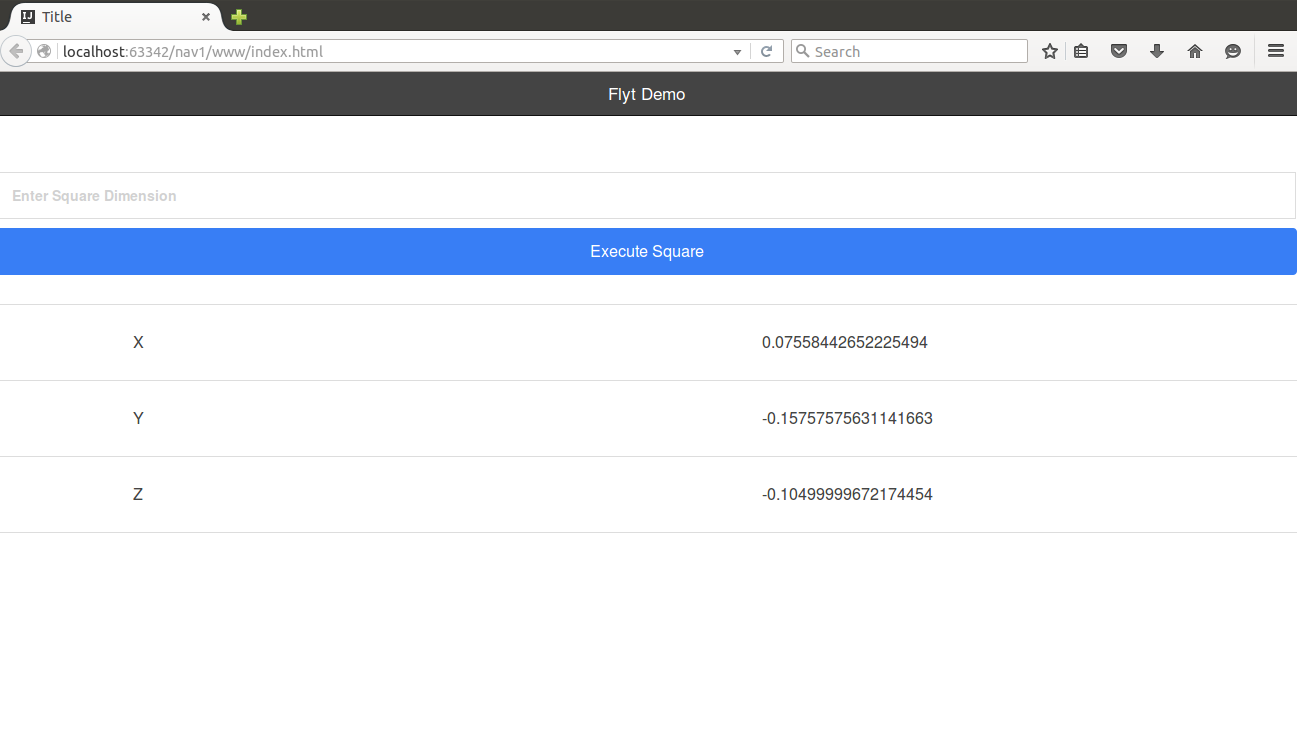
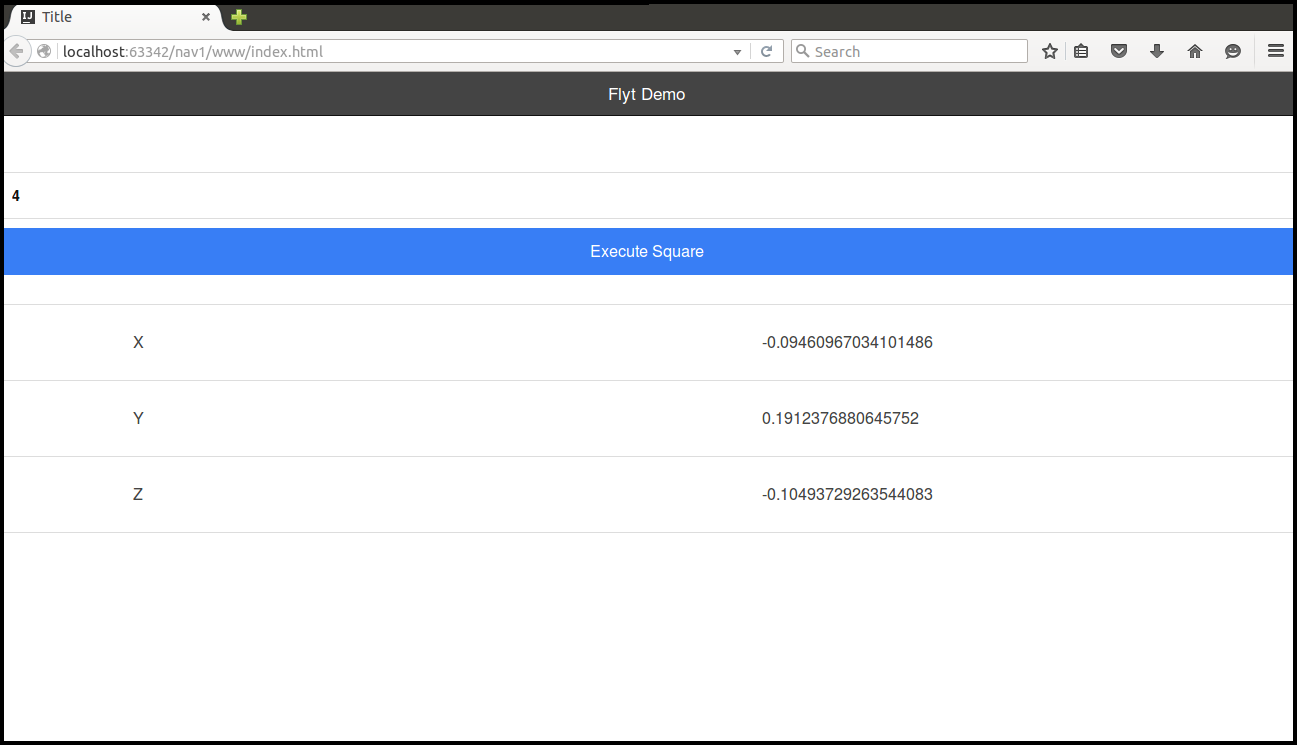
Screenshots for web and mobile apps added and typos corrected

diff --git a/source/docs/FlytSim/MobileApps.rst b/source/docs/FlytSim/MobileApps.rst
@@ -1,28 +1,29 @@
 .. _flytsim mobile apps:
 
-***********
-Mobile Apps
-***********
+*******************
+Web and Mobile Apps
+*******************
 
 Introduction
 ============
 
-This document deals with the instructions and step by step guide for creating Web and Mobile apps for your Drone. The Web apps can be developed using HTML, CSS and JS, however in the case of Mobile apps there are two ways of doing so. The conventional way is to build a mobile app using IDEs such as Eclipse or Android Studio in JAVA . The other way of going about creating mobile apps is to use the Web app created i.e a simple HTML,CSS and JS project and convert that into a mobile app using frameworks such as Cordova and Phonegap. This allows for sharing the same codebase for creating cross-platform mobile apps.
+This document deals with the instructions and step by step guide for creating Web and Mobile apps for your Drone. The Web apps can be developed using HTML, CSS and JS, however in the case of Mobile apps there are two ways of doing so. The conventional way is to build a mobile app in JAVA using IDEs such as Eclipse or Android Studio. The other way of going about creating mobile apps is to reuse the Web app code i.e a simple HTML,CSS and JS project and convert that into a mobile app using frameworks such as Cordova and Phonegap. This allows for sharing the same codebase for creating cross-platform mobile apps.
 
 
-Here we will delve into the second approach: developing mobile apps using web technologies (HTML, CSS, JS/Jquery) and Cordova engine. These apps will allow you to remotely monitor and command your drone. You will also see how to get custom data from the Drone on your app.
+Here we will delve into the second approach: developing a web app with HTML, CSS, JS/Jquery and Cordova engine. These apps will allow you to remotely monitor and command your drone. You will also see how to get custom data from the Drone on your app.
   
 
-The IDE that we have selected for this project is Intellij Idea. The GUI and the client side coding is done in HTML, CSS and JS/Jquery using Ionic as the front end framework for both Web and Mobile apps.
+The IDE that we have selected for this project is Intellij Idea. The GUI and the client side coding is done in HTML, CSS and JS/Jquery
+then reusing the code to create mobile apps using Ionic as the front end framework for both Web and Mobile apps.
 
 
 Front end Framework
 ^^^^^^^^^^^^^^^^^^^
 
-Ionic is free and open source and offers a library of mobile optimized HTML, CSS and JS components, reusable and customizable UI elements and other tools for building highly interactive mobile apps.We will be using Ionic for the front end development of Web apps as well as we will be converting this Web app into Mobile app later in this tutorial.For this Ionic uses Cordova engine which is a mobile development framework that uses web technologies for cross platform app development. You can refer to Ionic `getting started`_ guide for further instructions and to make yourself familiarized with the Ionic framework. For details about Cordova, you can look at their documentation `here`_.
+Ionic is free and open source and offers a library of mobile optimized HTML, CSS and JS components, reusable and customizable UI elements and other tools for building highly interactive mobile apps.We will be using Ionic for the front end development of Web apps since we will be converting these Web apps into Mobile apps later in this tutorial.Ionic uses Cordova engine which is a mobile development framework that uses web technologies for cross platform app development. You can refer to Ionic `getting started`_ guide for further instructions and to make yourself familiarized with the Ionic framework. For details about Cordova, you can look at their documentation `here`_.
 
 
-.. note:: There are many other Web and Mobile app front end frameworks available. You can use any framework that you are comfortable with.
+.. note:: There are many other Web and Mobile app front end frameworks available. You can use any framework that you are comfortable with. The UI of an app may have to be designed separately for web and mobile for platform specific optimizations.
 
 
 IDE
@@ -44,7 +45,7 @@ For a quick start, you can follow the steps given below to install Ionic, Cordov
 #. Please install Node.js v4 (Node.js v5 does not work at the moment with Ionic). To install node.js go to this `link`_. 
    
 
-#. To install the latest Ionic and Cordova use the following command:
+#. To install the latest Ionic and Cordova use the following command:                                                                    
    $ npm install -g cordova ionic
 
 #. Follow the Android and iOS platform guides to install required platform dependencies (SDKs).
@@ -67,7 +68,7 @@ Creating and Running a Web Application Project
 Once all components are setup, you can begin app development by creating a new project in IntelliJ IDEA.
 
 
-Steps to Create New Project for Web app:
+Steps to Create New Project for Web App:
 ^^^^^^^^^^^^^^^^^^^^^^^^^^^^^^^^^^^^^^^^
 
 #. Launch IntelliJ IDEA and click on **create new project**.
@@ -97,11 +98,16 @@ Also include eventemitter2.min.js and then roslib.js in your HTML pages. Follow 
 #. From the JS folder copy eventemitter.js and roslib.js and import them to your project in IntelliJ IDEA.
 
 
+.. note:: The source code for the sample web/mobile apps is available in github in above mentioned repository for your reference.
+
+
+
+
 
 Building and Running the Project:
 ^^^^^^^^^^^^^^^^^^^^^^^^^^^^^^^^^
 
-You can build and run the app using IntelliJ IDEA in a browser. Follow the steps below to do so :
+You can build and run the app using IntelliJ IDEA in a browser. Follow the steps below to do so:
 
 
 
@@ -118,7 +124,7 @@ Sample Web Application
 ======================
 
 
-Following is a simple demonstration of how to build a Web application for your drone. This application allows you to trigger an onboard script that sends commands to your drone to trace a square of user defined dimension. We will also see how to stream live data from your drone.
+Following is a simple demonstration of how to build a Web application for your drone. This application allows you to trigger an on-board script that sends commands to your drone to trace a square of user defined dimension. We will also see how to stream live data from your drone.
 
 
 
@@ -129,7 +135,7 @@ Following are the components for this application :
 
 
 
-1) Here we create a simple button using the Ionic component ‘Button’. The html code for which is as follows:
+1) Here we create a simple button using the Ionic component ‘Button’. The HTML code for which is as follows:
 
 .. code-block:: HTML
 
@@ -205,15 +211,28 @@ In this example we stream live data of location status from the drone using topi
 .. code-block:: HTML
        
     <div class="item">
-    <div class="row">
-    <div class="col col-25 col-offset-10">X</div>
-    <div class="col col-50 col-offset-25" id="posx"></div>
+    	<div class="row">
+    		<div class="col col-20 col-offset-10">X</div>
+    		<div class="col col-65 col-offset-20" id="posx"></div>
+    	</div>
     </div>
+    <div class="item">
+    	<div class="row">
+    		<div class="col col-20 col-offset-10">Y</div>
+    		<div class="col col-65 col-offset-20" id="posy"></div>
+    	</div>
     </div>
-    ……….
+    <div class="item">
+    	<div class="row">
+    		<div class="col col-20 col-offset-10">Z</div>
+    		<div class="col col-65 col-offset-20" id="posz"></div>
+    	</div>
+    </div>
 
 
-2) We have also used the Ionic grid component in order to arrange the elements of the list.
+
+
+2) We have also used the Ionic Grid component in order to arrange the elements of the list.
 3) Before you can stream data the namespace and websocket have to be set. Use the code given below:
        
 .. code-block:: JS
@@ -257,7 +276,7 @@ In this example we stream live data of location status from the drone using topi
 
    });
  
-.. image:: /_static/Images/web2.png
+.. image:: /_static/Images/web3.png
   :height: 400px
   :width: 650px
   :align: center
@@ -357,7 +376,7 @@ Following are the components for this application :
 
 
 
-1) Here we create a simple button using the Ionic component ‘Button’. The html code for which is as follows:
+1) Here we create a simple button using the Ionic component ‘Button’. The HTML code for which is as follows:
 
 .. code-block:: HTML
 
@@ -432,15 +451,27 @@ In this example we request location status from the drone using topic Local Posi
 .. code-block:: HTML
        
     <div class="item">
-    <div class="row">
-    <div class="col col-25 col-offset-10">X</div>
-    <div class="col col-50 col-offset-25" id="posx"></div>
+    	<div class="row">
+    		<div class="col col-20 col-offset-10">X</div>
+    		<div class="col col-65 col-offset-20" id="posx"></div>
+    	</div>
     </div>
+    <div class="item">
+    	<div class="row">
+    		<div class="col col-20 col-offset-10">Y</div>
+    		<div class="col col-65 col-offset-20" id="posy"></div>
+    	</div>
     </div>
-    ……….
+    <div class="item">
+    	<div class="row">
+    		<div class="col col-20 col-offset-10">Z</div>
+    		<div class="col col-65 col-offset-20" id="posz"></div>
+    	</div>
+    </div>
+    
 
 
-2) We have also used the Ionic grid component in order to arrange the elements of the list.
+2) We have also used the Ionic Grid component in order to arrange the elements of the list.
 3) Before you can stream data the namespace and websocket have to be set. Use the code given below:
        
 .. code-block:: JS
@@ -452,7 +483,7 @@ In this example we request location status from the drone using topic Local Posi
     url: "http://"+ip+"/ros/get_global_namespace"
 
 
-4) And for initializing websocket use the following code snippet:
+4) And for initializing websocket use the following code snippet: 
        
 .. code-block:: JS
        
@@ -485,13 +516,13 @@ In this example we request location status from the drone using topic Local Posi
    });
     
    
-.. image:: /_static/Images/pic3.png
+.. image:: /_static/Images/pic4.png
   :height: 400px
   :width: 250px
   :align: center   
 
 
-.. note:: Please note that you will have to change the IP address in the JS file to the IP address of the device you run FlytSim on. This is required so that data can be recieved on any external device that you have connected.
+.. note:: Please note that you will have to change the IP address in the JS file to the IP address of the device you run FlytSim on. This is required so that data can be received on any external device that you have connected.
 
 
 
@@ -509,4 +540,4 @@ In this example we request location status from the drone using topic Local Posi
 
 .. _Ionic components: http://ionicframework.com/docs/components/
 
-.. _GitHub repository: https://github.com/navstik/flytsample
+.. _GitHub repository: https://github.com/navstik/flytsamples
